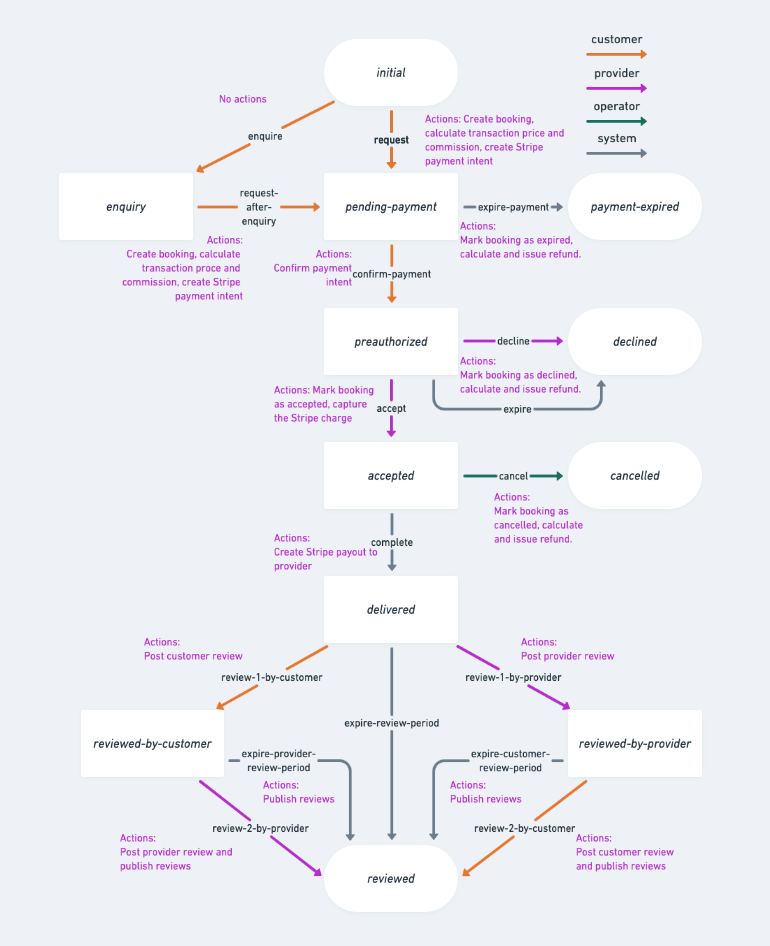
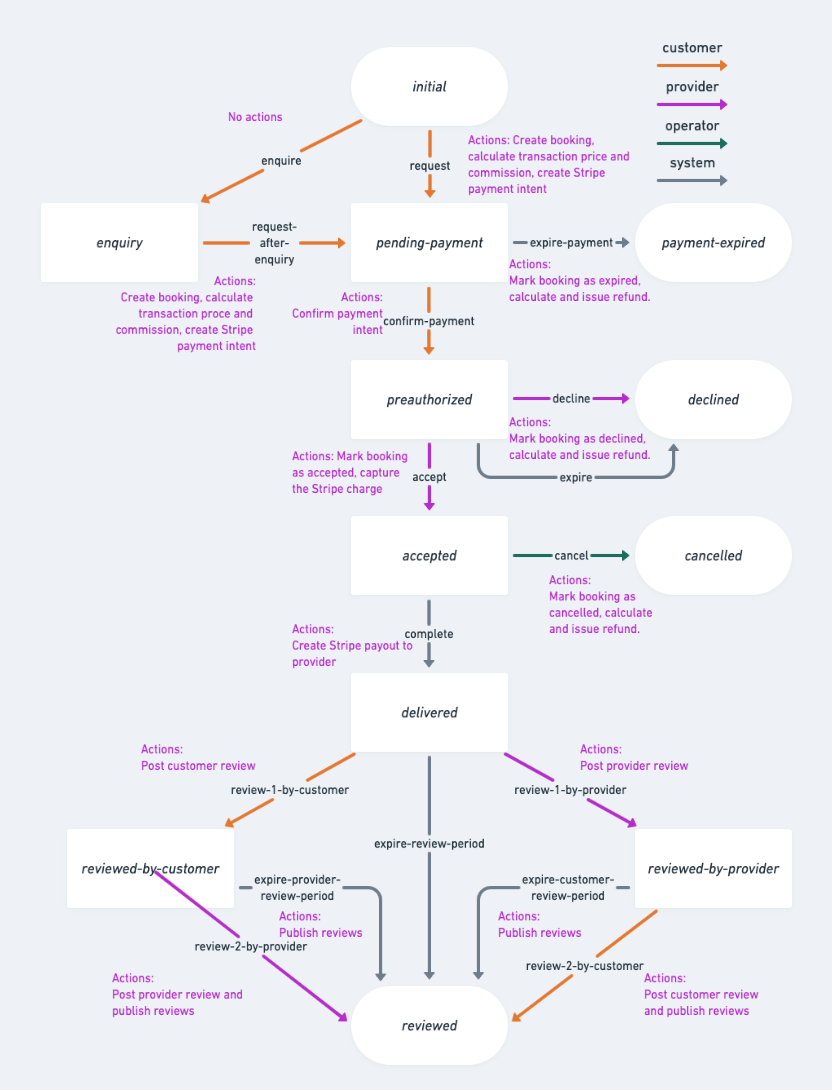
modifying images and 1st carousel from tx process article

diff --git a/src/components/CarouselTransactionProcessComponents/CarouselTransactionProcessComponents.js b/src/components/CarouselTransactionProcessComponents/CarouselTransactionProcessComponents.js
@@ -1,51 +1,39 @@
 import React from 'react';
 import { Carousel, CarouselSlide as Slide } from '../../components';
 
-import IMG_FULL_TRANSACTION_PROCESS from './full-transaction-process.png';
-import IMG_TRANSACTION_STATES from './transaction-states.png';
-import IMG_TRANSACTION_TRANSITIONS from './transaction-transitions.png';
-import IMG_TRANSACTION_ACTIONS from './transaction-actions.png';
+import IMG_TRANSACTION_PROCESS_COMPONENTS from './transaction-components-v3.png';
+import IMG_TRANSACTION_STATES from './transaction-states-v2.png';
+import IMG_TRANSACTION_TRANSITIONS from './transaction-transitions-v2.png';
+import IMG_TRANSACTION_ACTIONS from './transaction-actions-v2.png';
+import IMG_TRANSACTION_NOTIFICATIONS from './transaction-notifications-v2.png';
 
 const CarouselTransactionProcessComponents = props => {
   return (
     <Carousel {...props} maxWidth="480px">
-      <Slide imgSrc={IMG_FULL_TRANSACTION_PROCESS} imgAlt="Full transaction process">
-        <h3>Transaction process</h3>
-        <p>
-          The graph above visualizes a transaction process called the “flex-default-process.” It closely mimics how a customer and provider transact on AirBnB. From a listing, customers can message a provider or book directly, entering their payment details and authorizing the charge on their card. Providers must then accept the request, reject the request, or let it expire. 
-        </p>
-        <p>
-          After accepted bookings are completed, the customer and provider may review each other for a period of time. Then, the reviews are published, concluding the transaction.{' '}
-        </p>
+      <Slide imgSrc={IMG_TRANSACTION_PROCESS_COMPONENTS} imgAlt="Transaction process components">
       </Slide>
       <Slide imgSrc={IMG_TRANSACTION_STATES} imgAlt="Transaction states">
         <h3>Transaction States</h3>
         <p>
           States mark varying milestones in a transaction. In the default transaction process, for example, a transaction in the preauthorized state signifies that a customer has made a booking request and authorized a charge on their credit card. 
         </p>
-        <p>
-          The Flex default process, for example, has a state called preauthorized. It signifies that a customer has requested to book a time from the provider’s calendar and a charge on their credit card has been preauthorized.{''}
-        </p>
       </Slide>
       <Slide imgSrc={IMG_TRANSACTION_TRANSITIONS} imgAlt="Transaction transitions">
         <h3>Transaction Transitions</h3>
         <p>
-        Transitions move the transaction from one state to another. They are the steps between milestones.
-        </p>
-        <p>
         Transitions change the state of a transaction. They are initiated by certain actors (customers, providers, operators, or the system).
-        </p>
-        <p>
-          A transition is triggered by one or multiple actors: the customer, the provider, the operator, or time (this is known as an “automatic” actor in Flex). At this state in the transaction, the provider can transition the transaction to an accepted state. Or, the operator may cancel the booking.
-        </p>
-        <p>
-          Transitions describe the only possible next steps, as well as who must take them, from a particular milestone. No possible transitions from a state signify the transaction’s end point.
         </p>
       </Slide>
       <Slide imgSrc={IMG_TRANSACTION_ACTIONS} imgAlt="Transaction actions">
         <h3>Transaction Actions</h3>
         <p>
-          Actions define what happens during a transition. For instance, a transaction transitioning to the cancelled state in the default process involves three actions: **cancel** the booking reservation, **calculate** the full refund amount and **trigger** the payment refund in full. 
+          Actions define what happens during a transition. For instance, a transaction transitioning to the cancelled state in the default process involves three actions: <b>cancel</b> the booking reservation, <b>calculate</b> the full refund amount and <b>trigger</b> the refund payment in full. 
+        </p>
+      </Slide>
+      <Slide imgSrc={IMG_TRANSACTION_NOTIFICATIONS} imgAlt="Transaction notifications">
+        <h3>Transaction Notifications</h3>
+        <p>
+          Email notifications can be included as part of a transition. When a transaction transitions to the delivered state, for example, an email is sent to the customer prompting them to review the provider. Two emails are sent to the provider, one prompting them to review the customer and one about money being paid to their account.  
         </p>
       </Slide>
     </Carousel>
